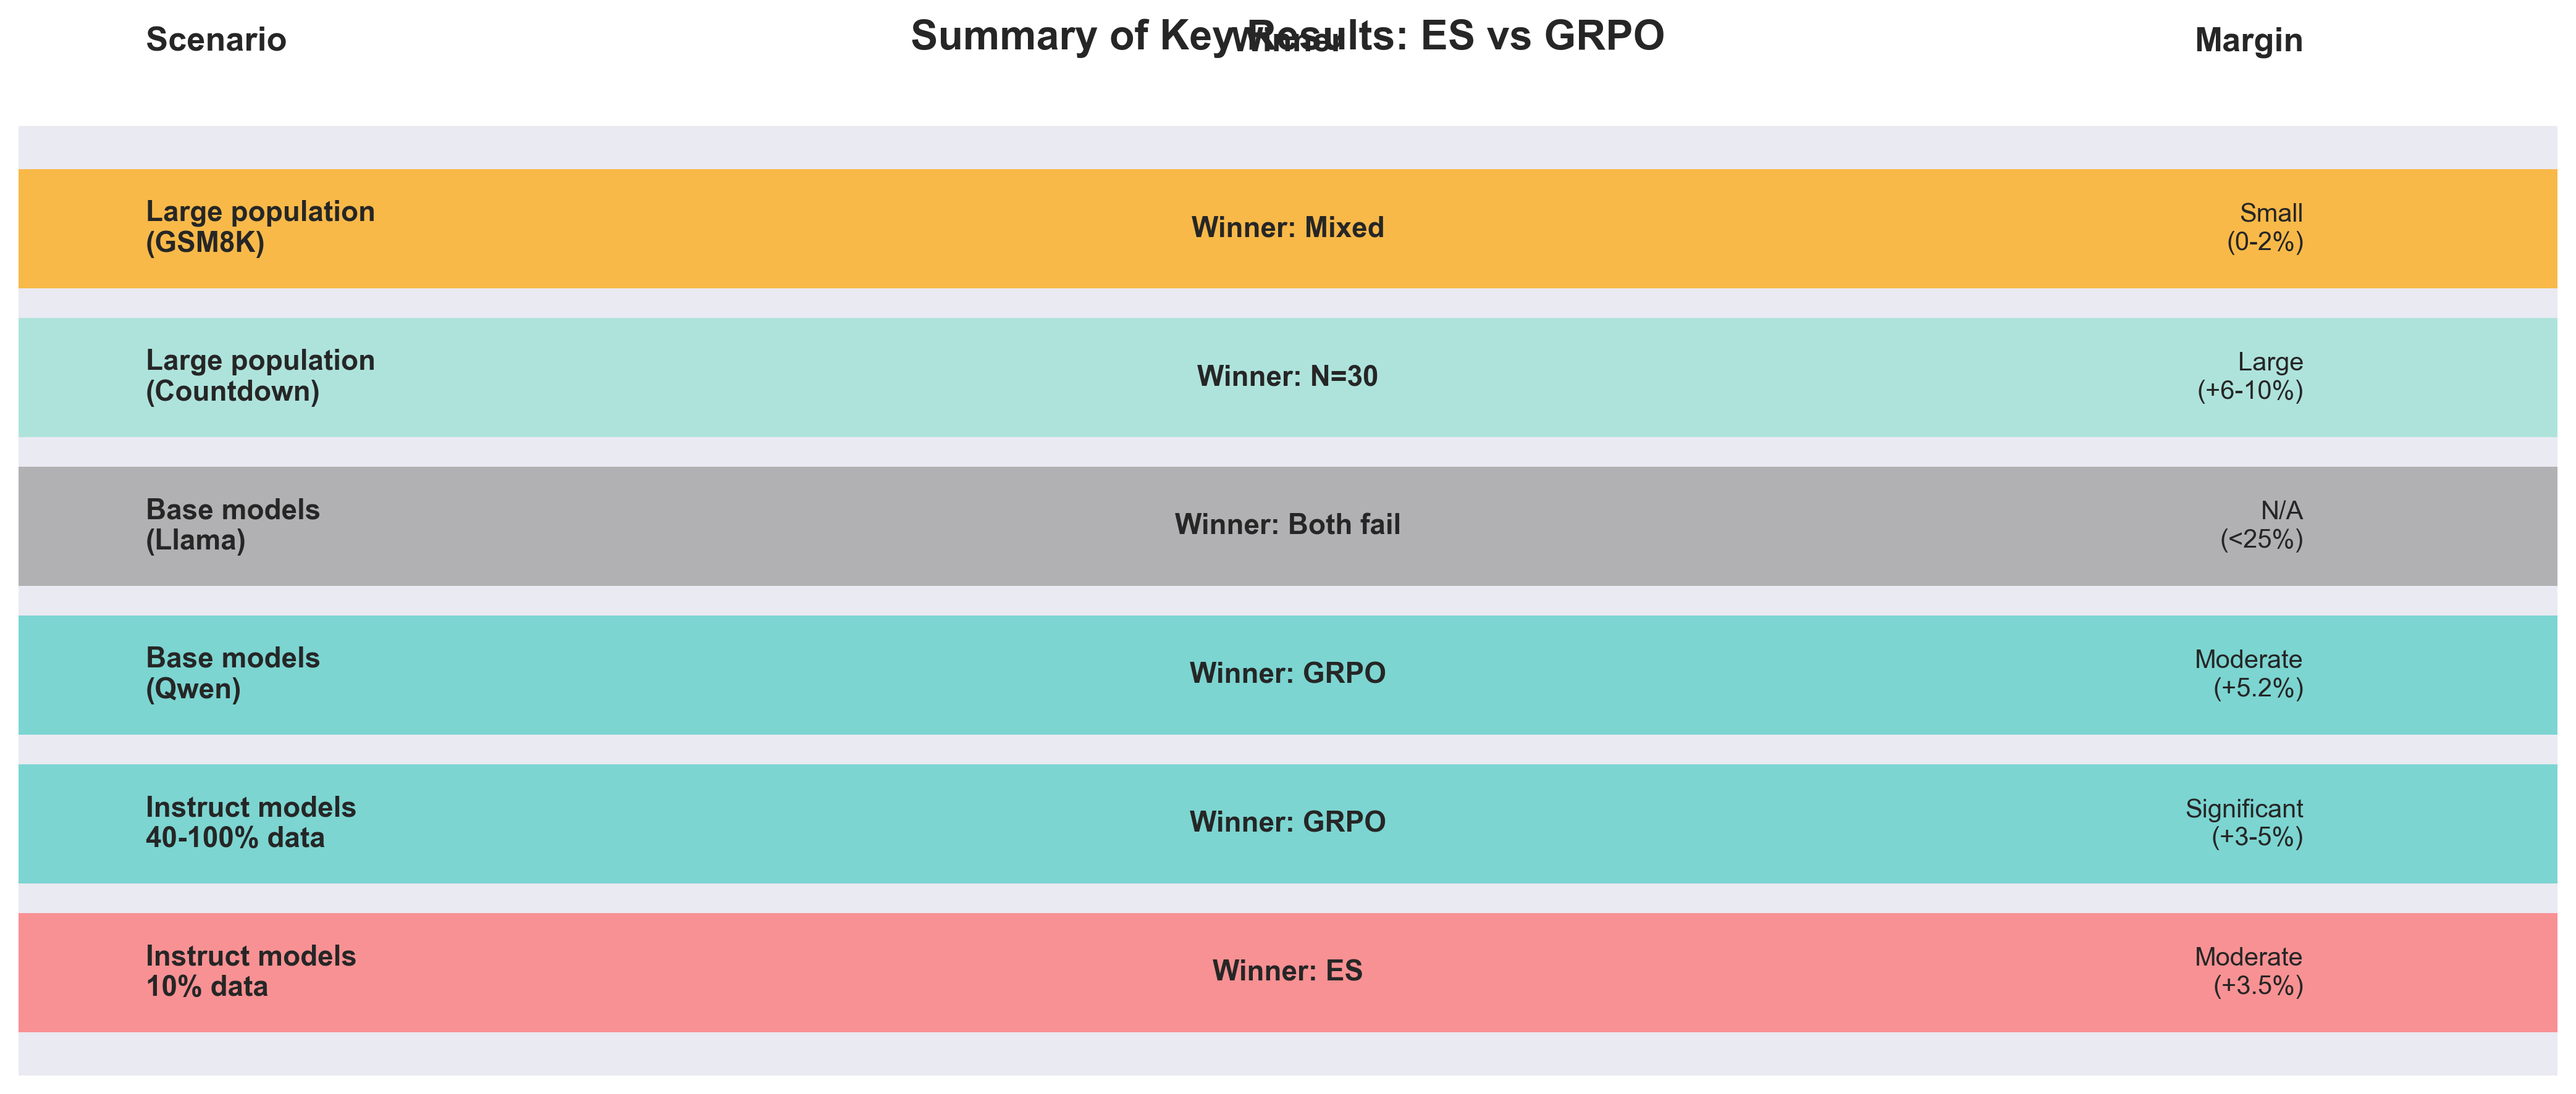
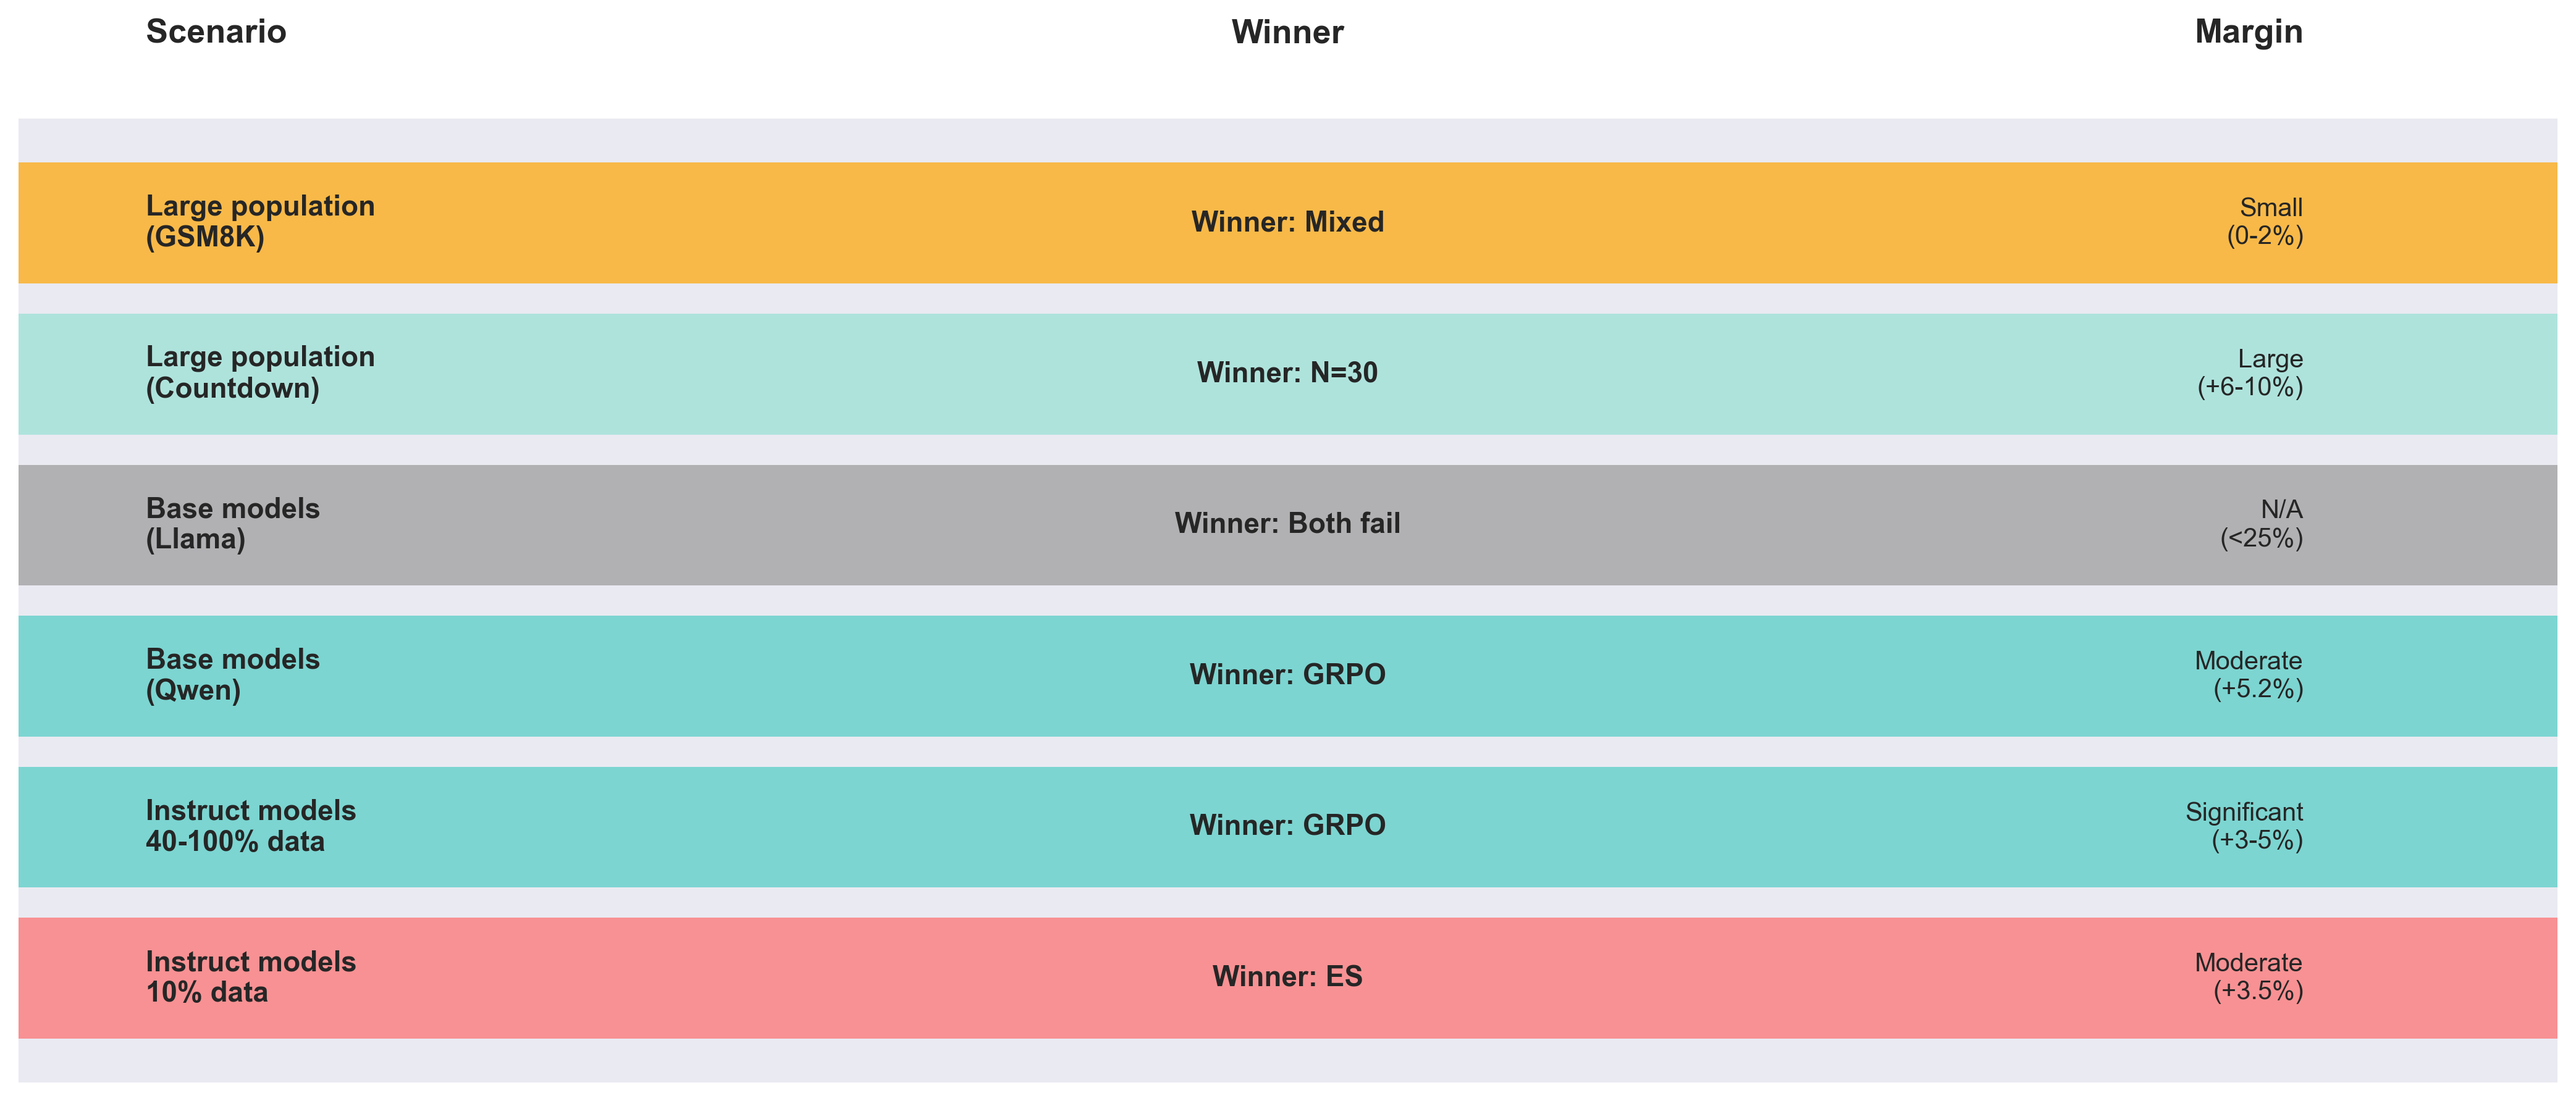
added dataset deets

diff --git a/es-fine-tuning-paper/src/scripts/generate_charts.py b/es-fine-tuning-paper/src/scripts/generate_charts.py
@@ -290,7 +290,7 @@ ax.text(0.05, len(scenarios) + 0.15, 'Scenario', fontsize=13, fontweight='bold',
 ax.text(0.5, len(scenarios) + 0.15, 'Winner', fontsize=13, fontweight='bold', va='bottom', ha='center')
 ax.text(0.9, len(scenarios) + 0.15, 'Margin', fontsize=13, fontweight='bold', va='bottom', ha='right')
 
-plt.title('Summary of Key Results: ES vs GRPO', fontsize=16, fontweight='bold', pad=30)
+# plt.title('Summary of Key Results:', fontsize=16, fontweight='bold', pad=30)
 plt.tight_layout()
 plt.savefig('assets/table4_summary.png', dpi=300, bbox_inches='tight')
 print("✓ Saved: assets/table4_summary.png")

diff --git a/es-fine-tuning-paper/BLOG.md b/es-fine-tuning-paper/BLOG.md
@@ -19,9 +19,9 @@ To answer these questions, we conducted a comparison of ES and GRPO across two r
 
 Our contributions are:
 
-- A controlled empirical comparison of ES vs GRPO across multiple data regimes
-- Analysis of how ES and GRPO perform on base vs instruction-tuned models
-- Insights on population size scaling for ES at the 3B model scale
+- Experiment A: Controlled empirical comparison of ES vs GRPO across multiple data regimes
+- Experiment B: Analysis of how ES and GRPO perform on base vs instruction-tuned models
+- Experiment C: Insights on population size scaling for ES at the 3B model scale
 
 You can find our eval rollouts and dataset used at this [link](https://huggingface.co/collections/alphaXiv/es-grpo).
 # Tasks & Dataset
@@ -91,14 +91,20 @@ We use a subset of the GSM8K training set (ranging from 10% to 100%) for fine-tu
 
 ## Data Splits
 
-To test data efficiency, we created four training splits for each task:
+For experiment A, to test data efficiency, we created four training splits for each task:
 
 - **10%**: 200 samples (Countdown), ~700 samples (GSM8K)
 - **40%**: 800 samples (Countdown), ~2,800 samples (GSM8K)
 - **70%**: 1,400 samples (Countdown), ~4,900 samples (GSM8K)
 - **100%**: 2,000 samples (Countdown), ~7,000 samples (GSM8K)
 
-We keep 
+For experiment B (base models), we used the 10% training split to test performance in low-data regimes, which is where ES showed the most promise in experiment A.
+
+For experiment C (population size scaling), we also used the 10% training split to isolate the effect of population size on ES performance without confounding from larger data sizes.
+
+
+We keep last 200 samples separate, from which the first 100 samples are used for validation during training and the remaining 100 samples are used for testing, ensuring that the test set is consistent across all experiments.
+
 For fair comparison, we ensured that ES and GRPO evaluated approximately the same number of total samples across training. With batch size $b$, population/group size $N$, and $T$ iterations:
 
 $$
@@ -130,8 +136,9 @@ ES has several appealing properties:
 - **Sync-free parallelism**: All $N$ evaluations can run in parallel without synchronizations as in gradient based approaches (since there are none)
 - **Exploration**: Tunable exploration through noise injection generating n-diverse perturbations
 
-In practice, the algorithm is implemented using several tricks to ensure scalability. These are described in more detail in [the paper](https://www.alphaxiv.org/abs/2509.24372).
+In practice, the algorithm is implemented using several tricks to ensure scalability. These are described in more detail in the original ES for fine tuning in [the paper](https://www.alphaxiv.org/abs/2509.24372).
 
+We use the hyperparameters from the original ES paper for all experiments to maintain consistency and robustness across tasks and models.
 ## Group Relative Policy Optimization (GRPO)
 
 GRPO is a modern on-policy RL algorithm that estimates advantages by comparing responses within a group. For each prompt, GRPO generates $N$ responses and uses their relative performance to compute advantages.
@@ -144,7 +151,7 @@ Our GRPO implementation uses:
 - $N=8$ rollouts per prompt
 - KL divergence penalty (coef=0.001, low_var_kl) to prevent drift from reference policy
 - FSDP (Fully Sharded Data Parallel) for distributed training
-- Gradient checkpointing enabled for memory efficiency
+
 
 **Task-Specific Hyperparameters:**
 
@@ -156,21 +163,11 @@ Our GRPO implementation uses:
 | Max Response Length | 1024 tokens | 1024 tokens |
 | PPO Mini-Batch Size | 32 | 128 |
 | Save Frequency | 23 steps | 100 steps |
-| Custom Reward Function | Built-in | `countdown_reward.py` |
+
 
 Our choice of hyperparameters for GRPO version of GSM8K task was inspired by this [HuggingFace article](https://huggingface.co/blog/Weyaxi/engineering-handbook-grpo-lora-with-verl).
+For Countdown, we used the hyperparameters from [this repository](https://github.com/Jiayi-Pan/TinyZero/tree/main).
 
-**vLLM Rollout Configuration:**
-- Tensor model parallelism: 1
-- GPU memory utilization: 0.8
-- Load format: safetensors
-- Max batched tokens: 65,535 (GSM8K)
-
-**FSDP Settings:**
-- 8 GPUs per node, 1 node
-- Reference model: parameter offload enabled
-- Actor model: parameter offload disabled (for speed)
-- Optimizer offload: disabled
 
 ![GRPO Working](assets/grpo-working.png)
 We use VERL (a scalable RL training framework) for our GRPO experiments, which provides efficient implementations of vLLM-based rollout generation and FSDP-based training.
@@ -185,7 +182,7 @@ We compare ES and GRPO on two model families at the 3B parameter scale:
 
 We chose these models, owing to their availability at 3B scale which suited for consumer GPUs and different training characteristics since qwen models are know to be more robust to instruction tuning and have better mathematical capabilities than llama models.
 
-For base models, we use custom chat templates to format prompts appropriately, as they lack built-in instruction-following capabilities. The use of chat template is necessary as mentioned in [DeepSeek-R1](https://www.alphaxiv.org/abs/2509.24372). We made use of a simple prompt template owing to [SimpleRL](https://www.alphaxiv.org/abs/2503.18892) results
+For base models, we use custom chat templates to format prompts appropriately, as they lack built-in instruction-following capabilities. The use of chat template is necessary as mentioned in [DeepSeek-R1](https://www.alphaxiv.org/abs/2509.24372). We made use of a simple prompt template owing to [SimpleRL](https://www.alphaxiv.org/abs/2503.18892) results.
 
 # Training Setup
 
@@ -211,16 +208,6 @@ GRPO training used VERL's optimized implementation with:
 - vLLM for efficient rollout generation (N=8 samples per prompt)
 - FSDP (Fully Sharded Data Parallel) for distributed actor training across 8 GPUs
 - Ray for distributed coordination
-
-**Training Strategy:**
-- On-policy learning with group-based advantage estimation
-- Gradient checkpointing for memory efficiency
-- Reference model parameter offload to CPU (actor parameters kept on GPU)
-- Low-variance KL penalty (coef=0.001) to maintain proximity to reference policy
-
-**Task-Specific Settings:**
-- GSM8K uses higher learning rate (3×10⁻⁶) and smaller batch size (32) due to longer responses
-- Countdown uses lower learning rate (1×10⁻⁶) and larger batch size (128) with custom reward function
 
 Both methods were configured to perform approximately equal total evaluations for fair comparison.
 
@@ -296,7 +283,7 @@ A natural question with ES is whether using a larger population size improves pe
 
 ## Why Does ES Excel in Low-Data Regimes?
 
-ES's advantage in low-data regimes stems from a fundamental difference in how it explores the model's behavior. Rather than injecting noise at the token level (as RL methods do), ES perturbs the model's parameters directly. This means that for a given perturbation, the entire response trajectory is determined by a single noise sample, producing lower-variance rollouts. With limited training data, this matters: GRPO's token-level noise accumulates across every step in a sequence, making gradient estimates unreliable when only a small number of prompts are available to average over. ES sidesteps this problem entirely. Additionally, because ES implicitly optimizes a distribution of solutions rather than a single policy, it is naturally more conservative — less likely to overfit to the handful of examples in a small dataset, which would manifest as reward hacking in the RL setting. Together, these properties make ES a more stable and sample-efficient optimizer when data is scarce.
+ES's advantage in low-data regimes stems from a fundamental difference in how it explores the model's behavior. Rather than injecting noise at the token level (as RL methods do), ES perturbs the model's parameters directly. This means that for a given perturbation, the entire response trajectory is determined by a single noise sample, producing lower-variance rollouts, which leads to high rewards according to the reward function. With limited training data, this matters: GRPO's token-level noise accumulates across every step in a sequence, making gradient estimates unreliable when only a small number of prompts are available to average over. ES sidesteps this problem entirely. Additionally, because ES implicitly optimizes a distribution of solutions rather than a single policy, it is naturally more conservative — less likely to overfit to the handful of examples in a small dataset, which would manifest as reward hacking in the RL setting. Together, these properties make ES a more stable and sample-efficient optimizer when data is scarce.
 
 ## Why Does GRPO Dominate Base Models?
 
@@ -378,14 +365,9 @@ As the field continues to explore alternatives to standard RL approaches, ES des
 
 ---
 
-**Code and data**: All code for reproducing these experiments is available at [https://github.com/VsonicV/es-fine-tuning-paper](https://github.com/VsonicV/es-fine-tuning-paper)
-
-**Questions or feedback?** We'd love to hear from you. Open an issue on GitHub or reach out to the authors directly.
+**Code and data**: All code for reproducing these experiments is available at [link](https://github.com/alphaXiv/paper-implementations/tree/raj-es/es-fine-tuning-paper/BLOG.md)
 
 # Acknowledgments
 
 This work builds on the Evolution Strategies implementation from the [es-fine-tuning-paper](https://alphaxiv.org/abs/2509.24372) and uses VERL (Volcano Engine Reinforcement Learning) for GRPO experiments. We thank the authors of both frameworks for open-sourcing their implementations.
 
-Experiments were conducted on Lambda Labs cloud infrastructure (1x H100 80GB and 8x A100 80GB) running Lambda Stack 22.04.
-
-Experiments were conducted using Lambda Labs cloud infrastructure (8x NVIDIA A100 40GB GPUs)
